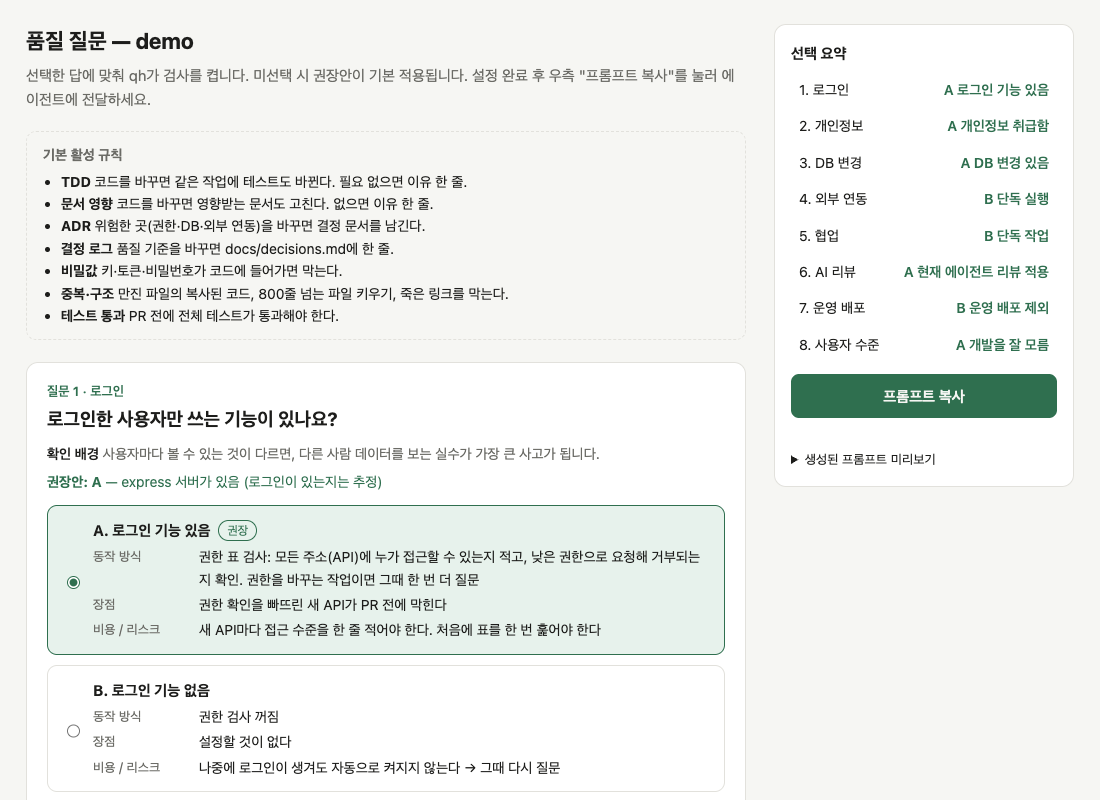
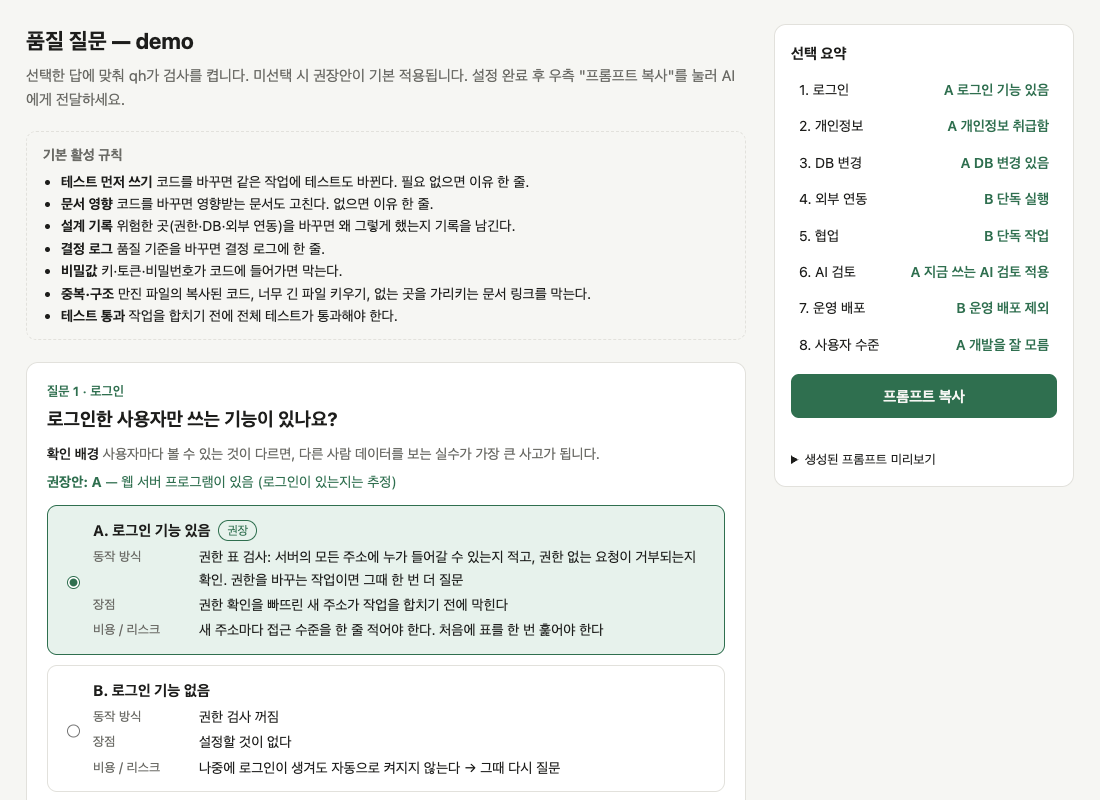
docs: README 캡처 갱신, 설계안 고르기 화면 추가

diff --git a/README.md b/README.md
@@ -22,7 +22,13 @@ Claude Code나 Kiro에서 내 프로젝트를 연 다음에 붙여 넣으면 됩
 
 ![AI가 일을 끝내기 전에 매번 검사를 받는다](docs/images/what-happens.svg)
 
-## 4. "품질 리포트 보여줘"라고 하면
+## 4. AI가 안을 그림으로 보여 주면 하나 고르세요
+
+![설계안 고르기 화면](docs/images/design-choice.png)
+
+마음에 드는 안을 고르고 이유를 한 줄 적어 붙여 넣으면 됩니다.
+
+## 5. "품질 리포트 보여줘"라고 하면
 
 ![결과지: 설치 전과 지금](docs/images/report.png)
 
